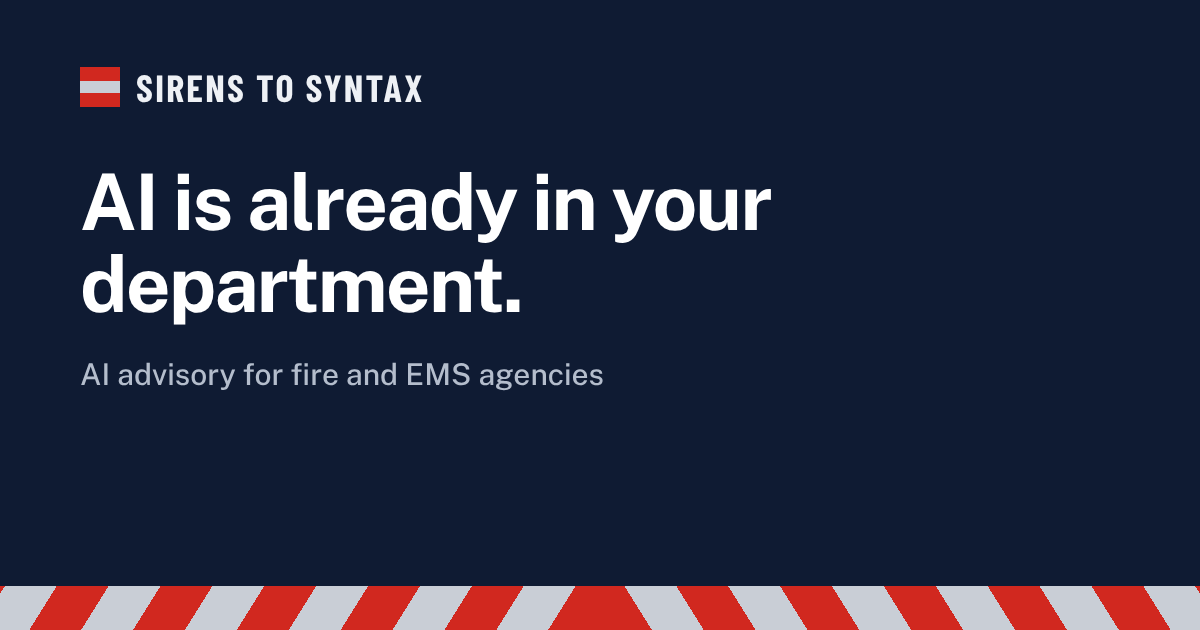
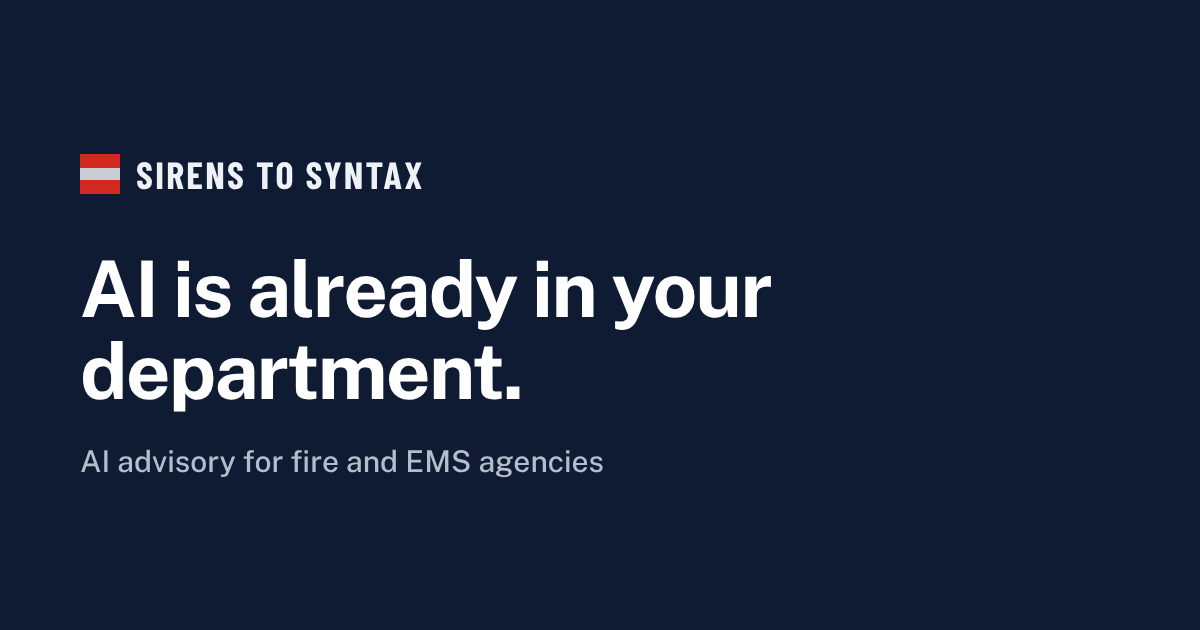
Remove the striped band from the pages and share image
Claude-Session: https://claude.ai/code/session_01SSq465KNYCr8Vm9BffeStQ

diff --git a/site.css b/site.css
@@ -1,6 +1,5 @@
 /* Sirens to Syntax: shared styles for the advisory homepage and the Tools page.
-   Palette comes from the fire service itself: dress-uniform navy, apparatus red,
-   and the red-and-silver chevron striping on the back of a rig. */
+   Palette: dress-uniform navy, apparatus red used sparingly, white and light gray. */
 
 :root{
   --navy:#0f1b33;
@@ -82,14 +81,6 @@ a:focus-visible,button:focus-visible{outline:3px solid var(--red);outline-offset
 .hero .btn-row{margin-top:2.5rem}
 .hero--page{padding:76px 0 72px}
 .hero--page h1{font-size:clamp(2.2rem,4.6vw,3.3rem);max-width:20ch}
-
-/* the one loud element: apparatus chevrons */
-.chevrons{display:flex;height:22px;background:var(--navy)}
-.chevrons::before,.chevrons::after{
-  content:"";flex:1 1 50%;
-  background:repeating-linear-gradient(-58deg,var(--red) 0 30px,var(--silver) 30px 60px);
-}
-.chevrons::after{transform:scaleX(-1)}
 
 /* ---------- buttons ---------- */
 .btn-row{display:flex;gap:.9rem;flex-wrap:wrap}

diff --git a/tools.html b/tools.html
@@ -51,7 +51,6 @@
       <p class="hero-lede">I also build software for the fire service. It keeps me close to what AI does well and where it falls short.</p>
     </div>
   </div>
-  <div class="chevrons" role="presentation"></div>
 
   <section class="band" id="drillground">
     <div class="wrap split">

diff --git a/index.html b/index.html
@@ -57,7 +57,6 @@
       </div>
     </div>
   </div>
-  <div class="chevrons" role="presentation"></div>
 
   <section class="band" id="problem">
     <div class="wrap split">
